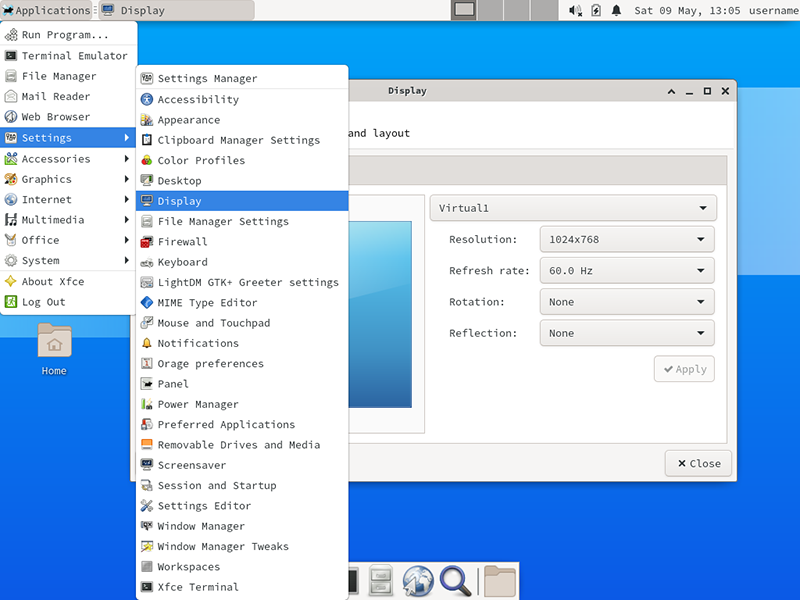
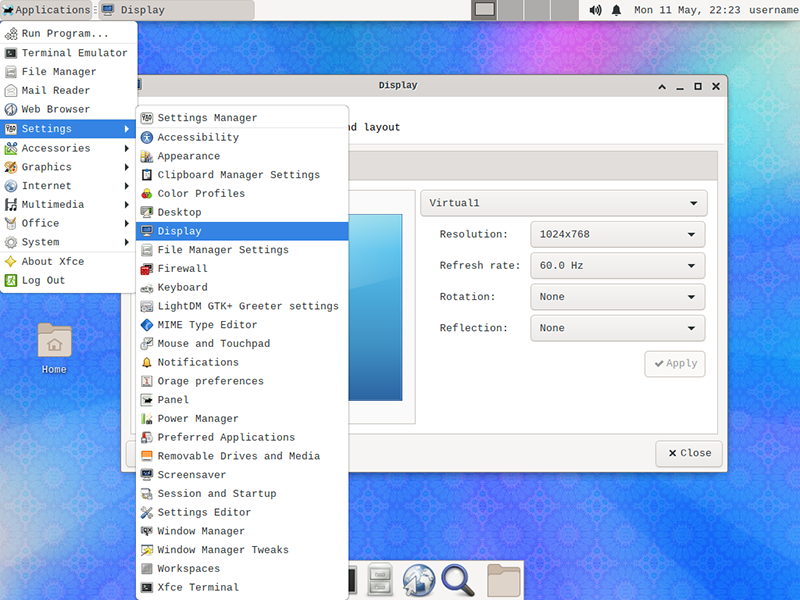
修改安装 xfce 的章节和截图

diff --git a/arch-linux-install-xfce-desktop-environment.md b/arch-linux-install-xfce-desktop-environment.md
@@ -125,9 +125,9 @@ Enter a selection (default=all):
 
 #### 更换外观主题和窗口样式
 
-打开 `appearance` 外观设置，选择想要更换的外观主题
+打开 `Appearance` 外观设置，选择想要更换的外观主题
 
-*从屏幕顶上菜单打开*
+*从桌面顶部菜单打开*
 
 ![archlinux-xfce-appearance-01](images/408-archlinux-xfce-appearance-01-800x600.png)
 
@@ -141,7 +141,7 @@ Enter a selection (default=all):
 
 打开 `Window Manager` 窗口管理，选择想要的窗口样式
 
-*从屏幕顶上菜单打开*
+*从桌面顶部菜单打开*
 
 ![archlinux-window-manager-01](images/434-archlinux-window-manager-01-800x600.png)
 
@@ -223,7 +223,33 @@ Enter a selection (default=all):
 
     ![archlinux-xfce-desktop-settings-06](images/419-archlinux-xfce-desktop-settings-06-800x600.png)
 
+### 更改显示分辨率
 
+打开 `Display` 显示设置
+
+*从桌面顶部菜单打开*
+
+![archlinux-xfce-display-01](images/407-archlinux-xfce-display-01-800x600.png)
+
+*从桌面右键菜单打开*
+
+![archlinux-xfce-display-02](images/421-archlinux-xfce-display-02-800x600.png)
+
+*从 `Resolution` 选择合适的分辨率*
+
+![archlinux-xfce-display-03](images/422-archlinux-xfce-display-03-800x600.png)
+
+*按 `Apply` 按钮提交修改*
+
+![archlinux-xfce-display-04](images/423-archlinux-xfce-display-04-800x600.png)
+
+*按 `Keep this configuration` 保存设置*
+
+![archlinux-xfce-display-05](images/424-archlinux-xfce-display-05-800x640.png)
+
+*更改显示分辨率后的桌面*
+
+![archlinux-xfce-display-06](images/437-archlinux-xfce-display-06-800x640.png)
 
 ##### 参考资料
 
